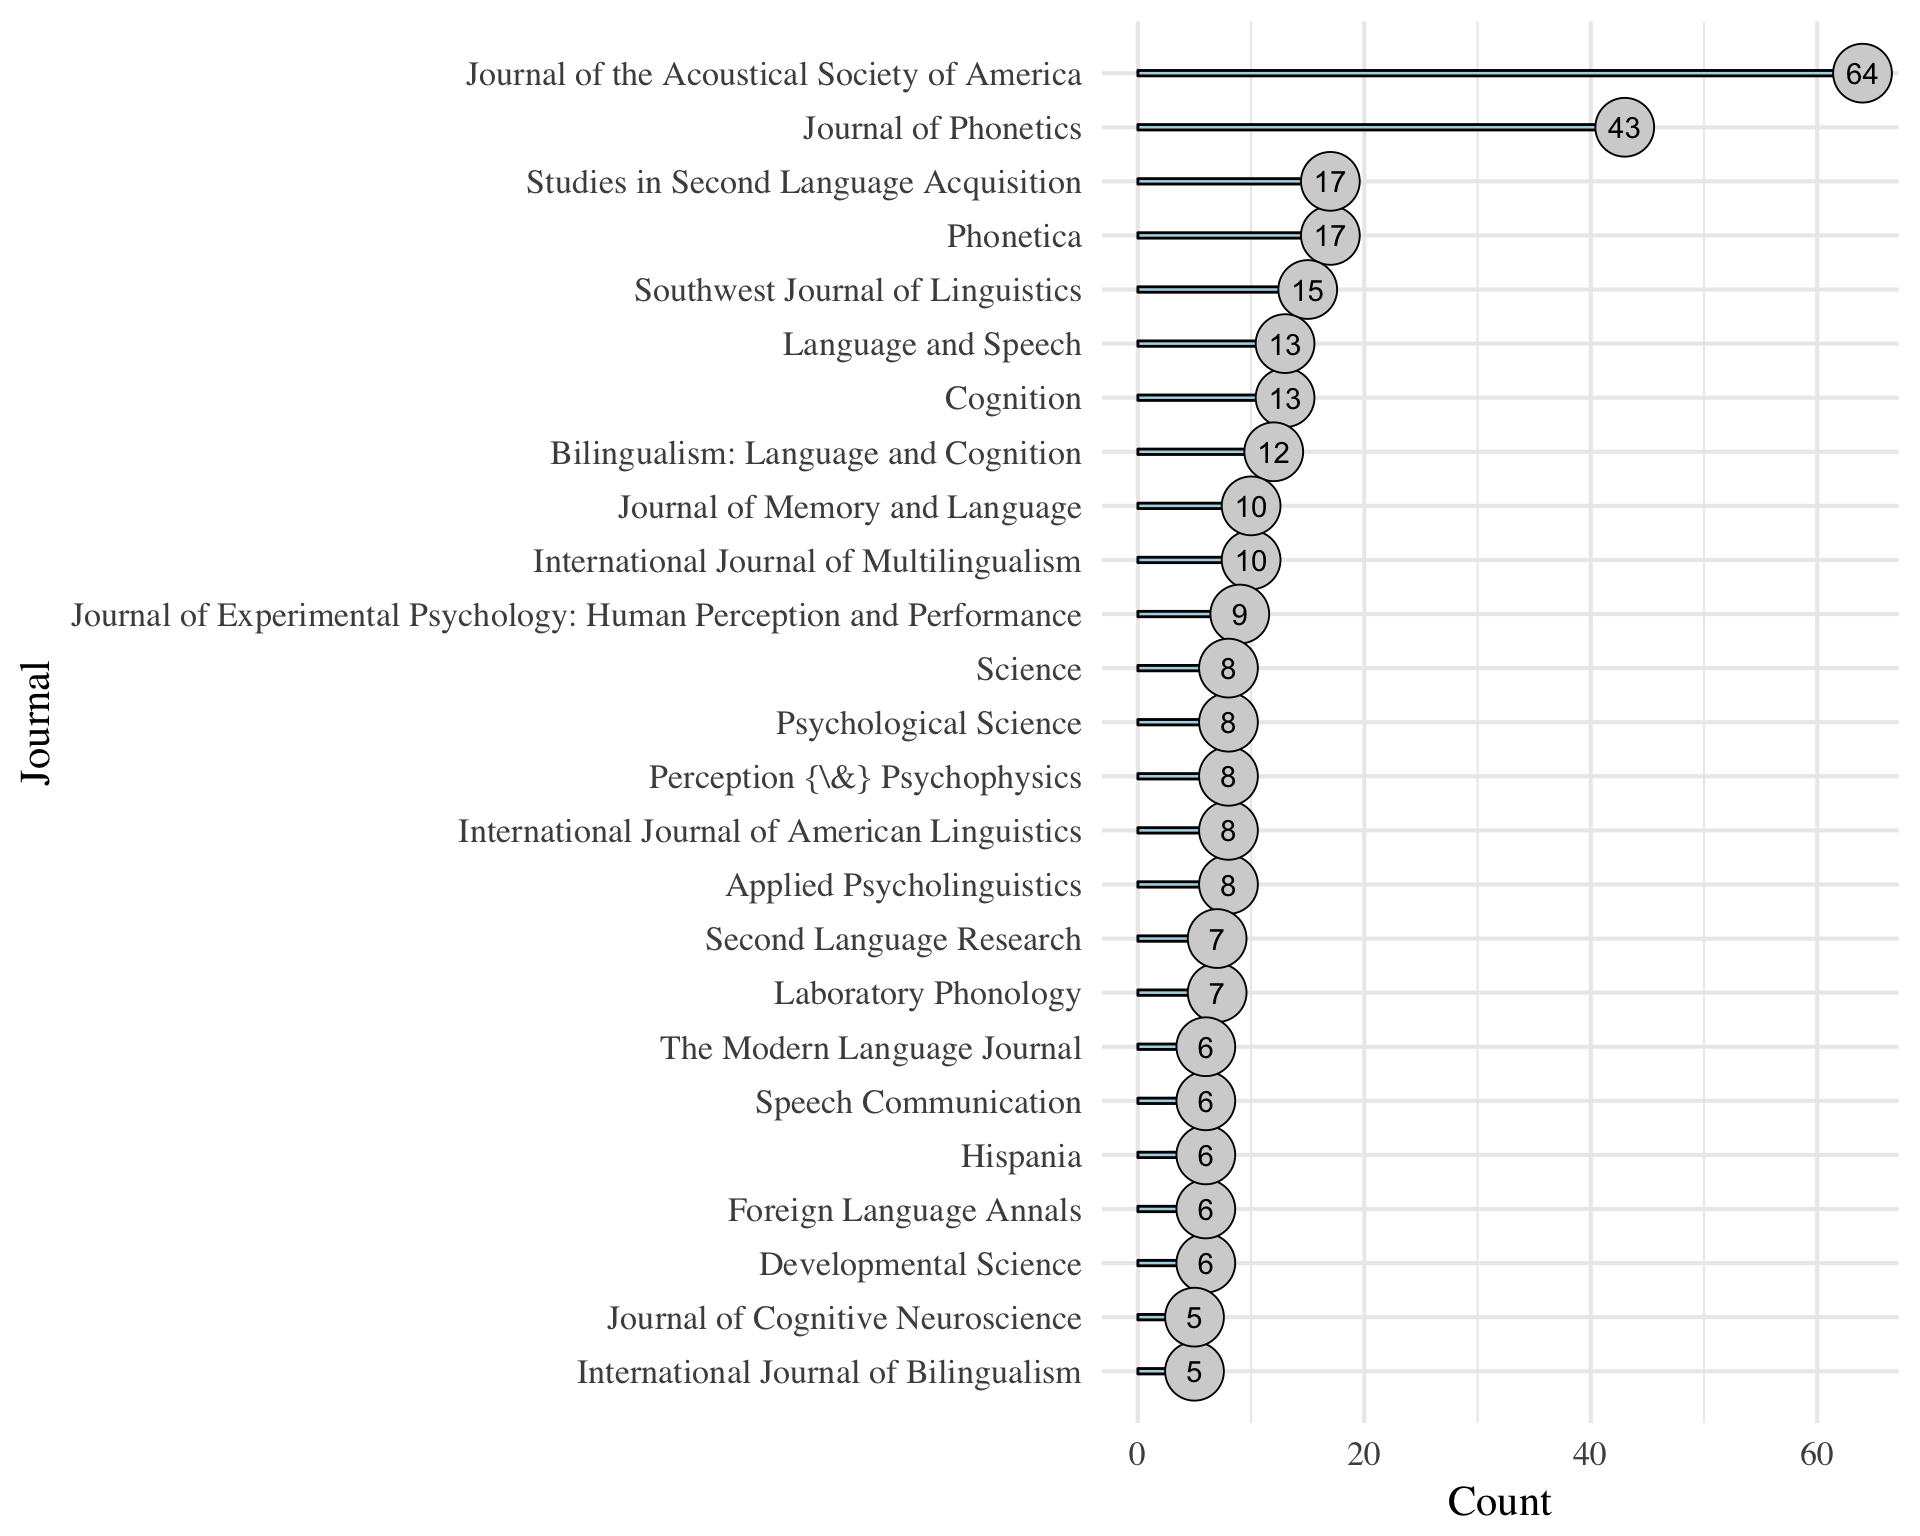
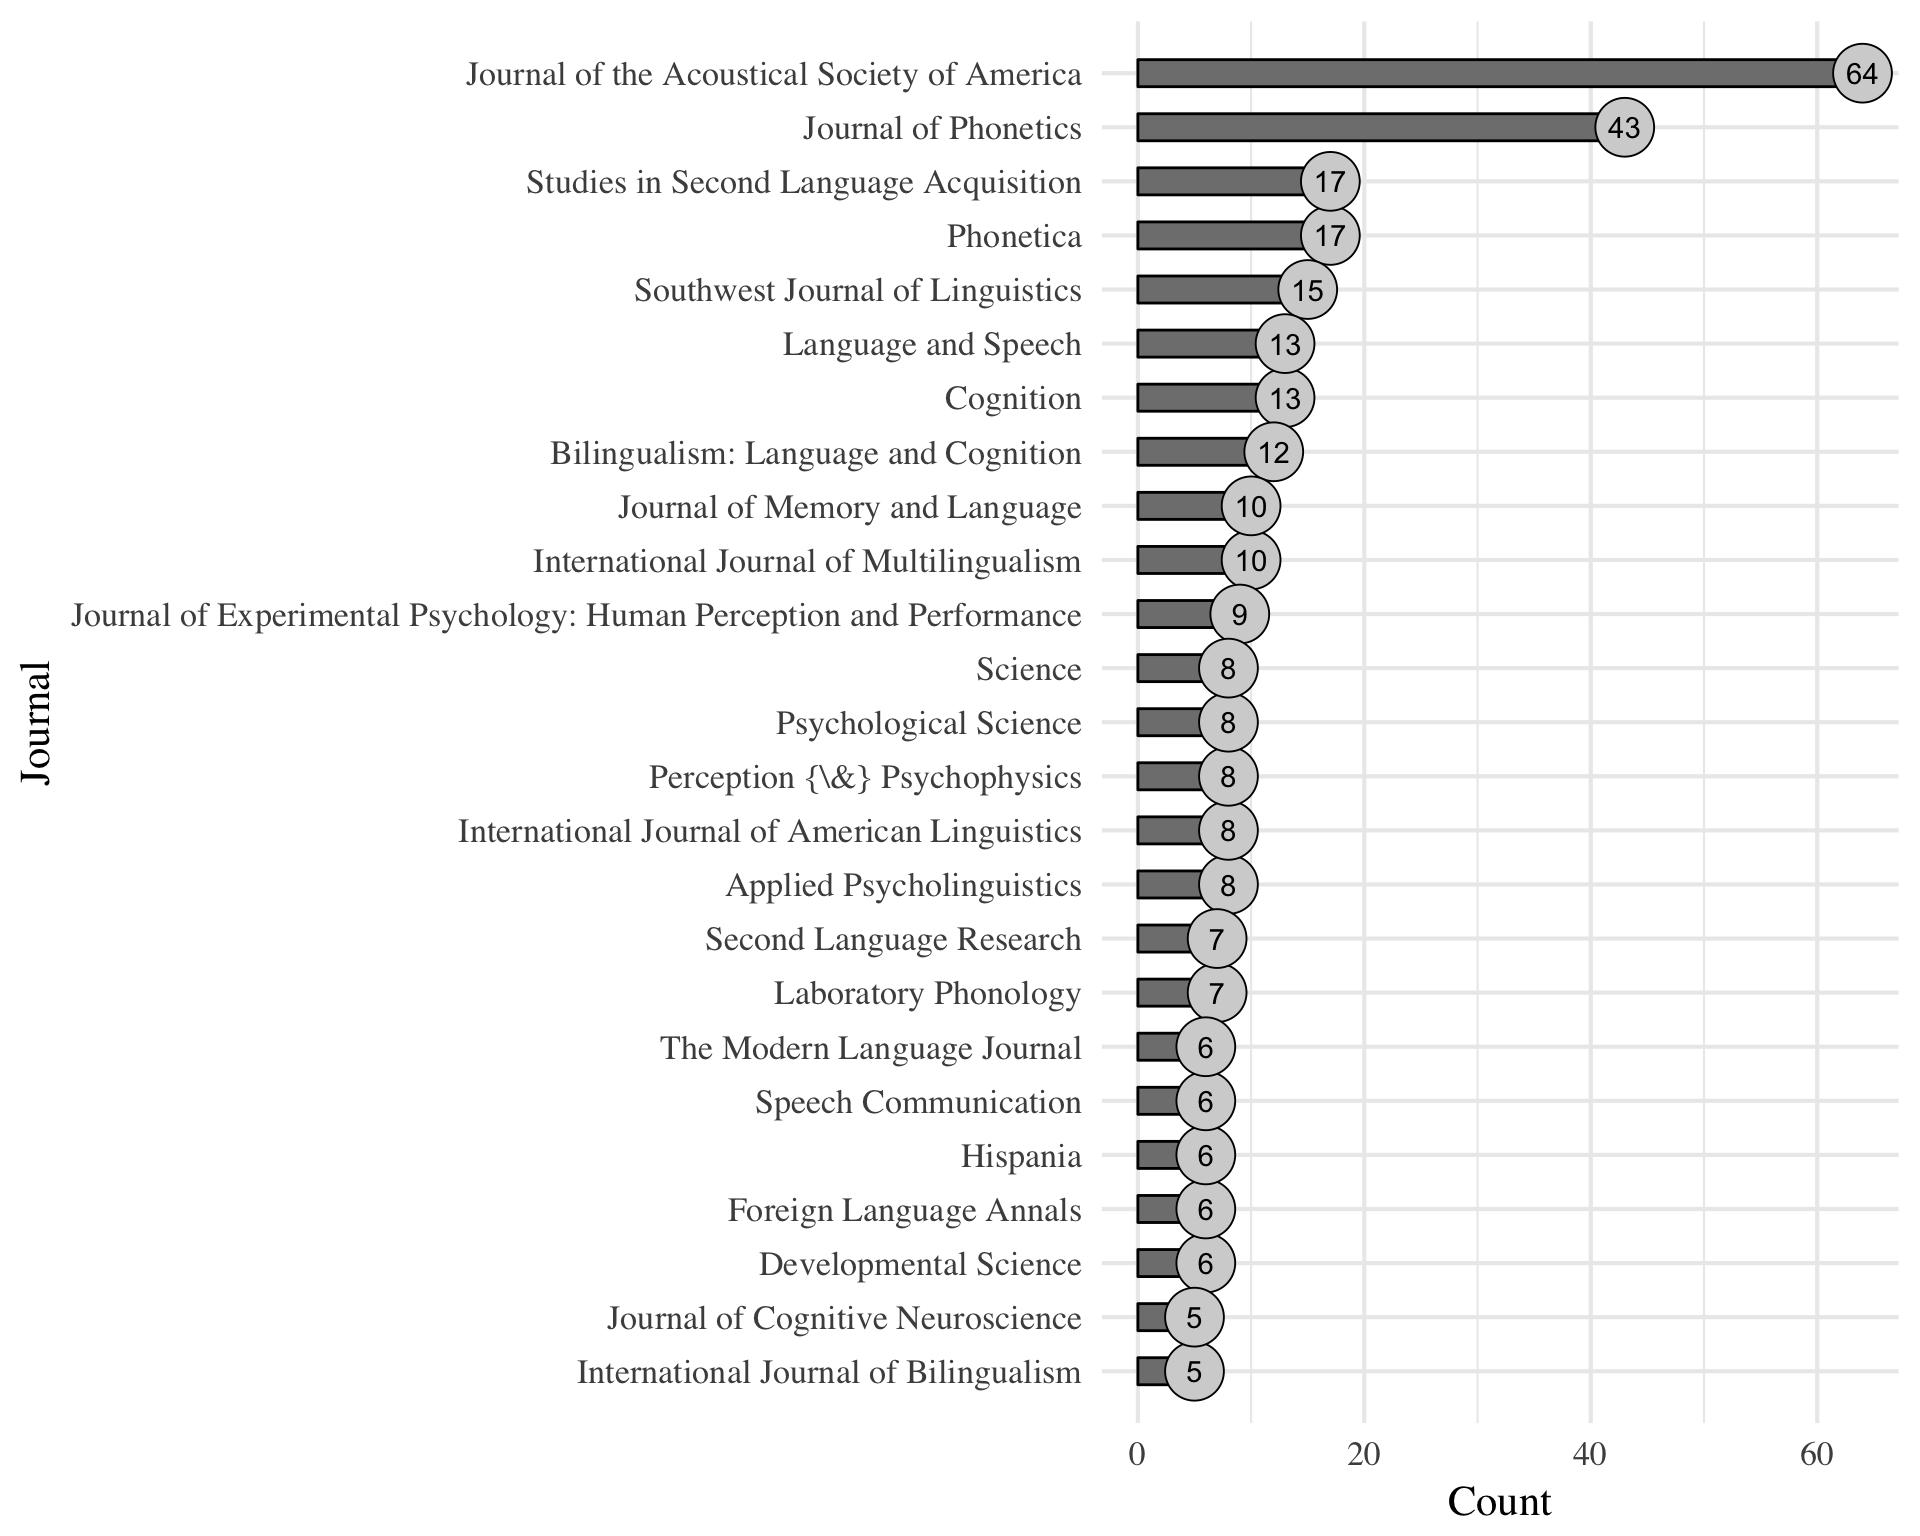
adjust color for journal plot

Changed region(s): [[0.5938, 0.0312, 0.9688, 0.9062]]

diff --git a/README.md b/README.md
@@ -72,7 +72,7 @@ bib %>%
   slice(., 1:25) %>% 
   ggplot(., aes(x = JOURNAL, y = counts, label = counts)) + 
     geom_bar(stat = "identity", color = 'black', 
-             fill = 'lightblue', width = 0.1) + 
+             fill = 'grey50', width = 0.5) + 
     geom_point(pch = 21, size = 10, color = 'black', fill = 'lightgrey') + 
     geom_text() + 
     labs(y = "Count", x = "Journal") + 
@@ -80,7 +80,7 @@ bib %>%
     coord_flip() 
 ```
 
-<img src="https://i.imgur.com/XmrJyqc.png" width="960" />
+<img src="https://i.imgur.com/wZdb8ws.png" width="960" />
 
 ## Authors
 
